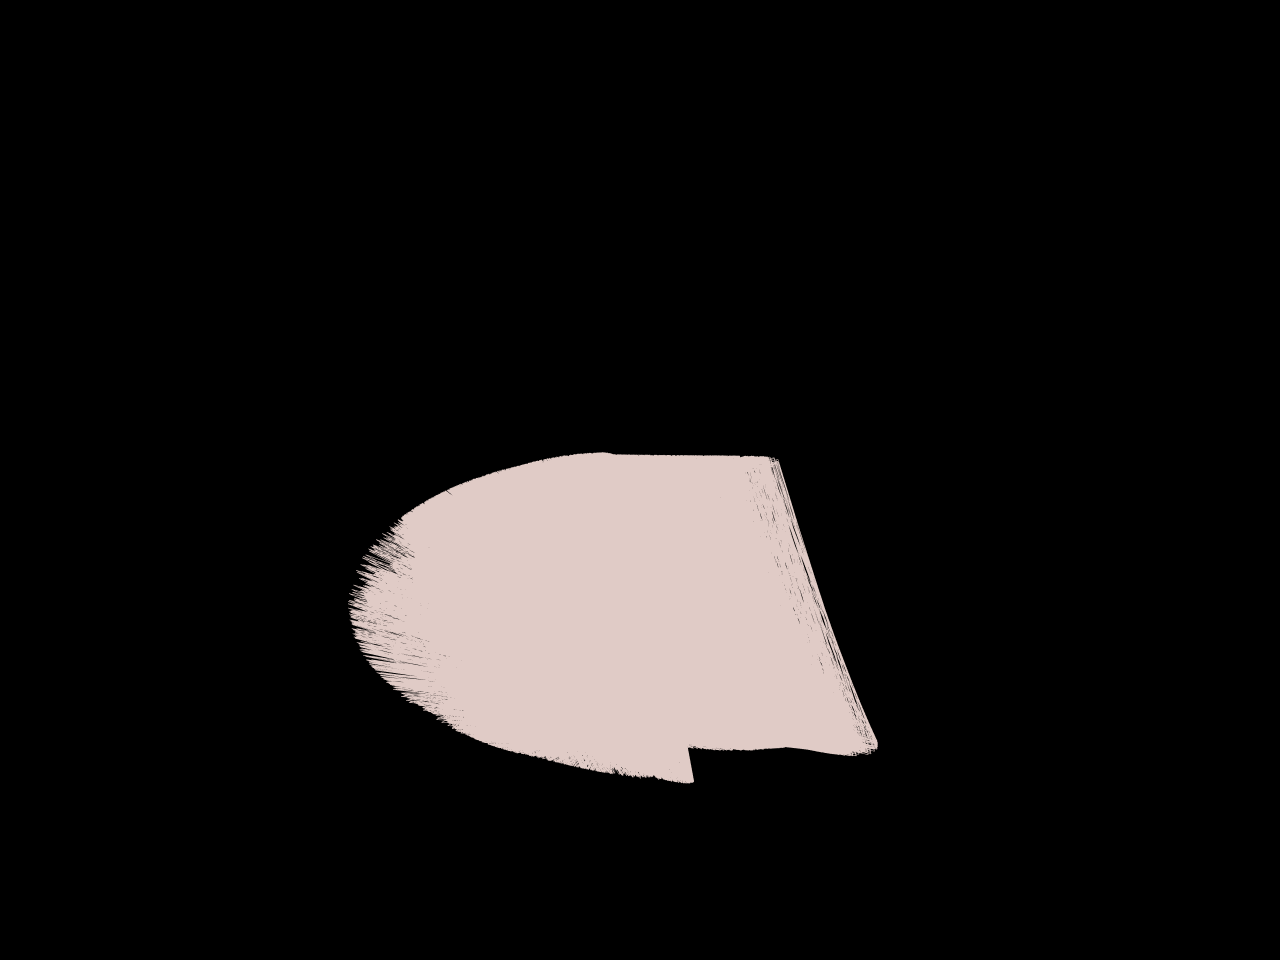
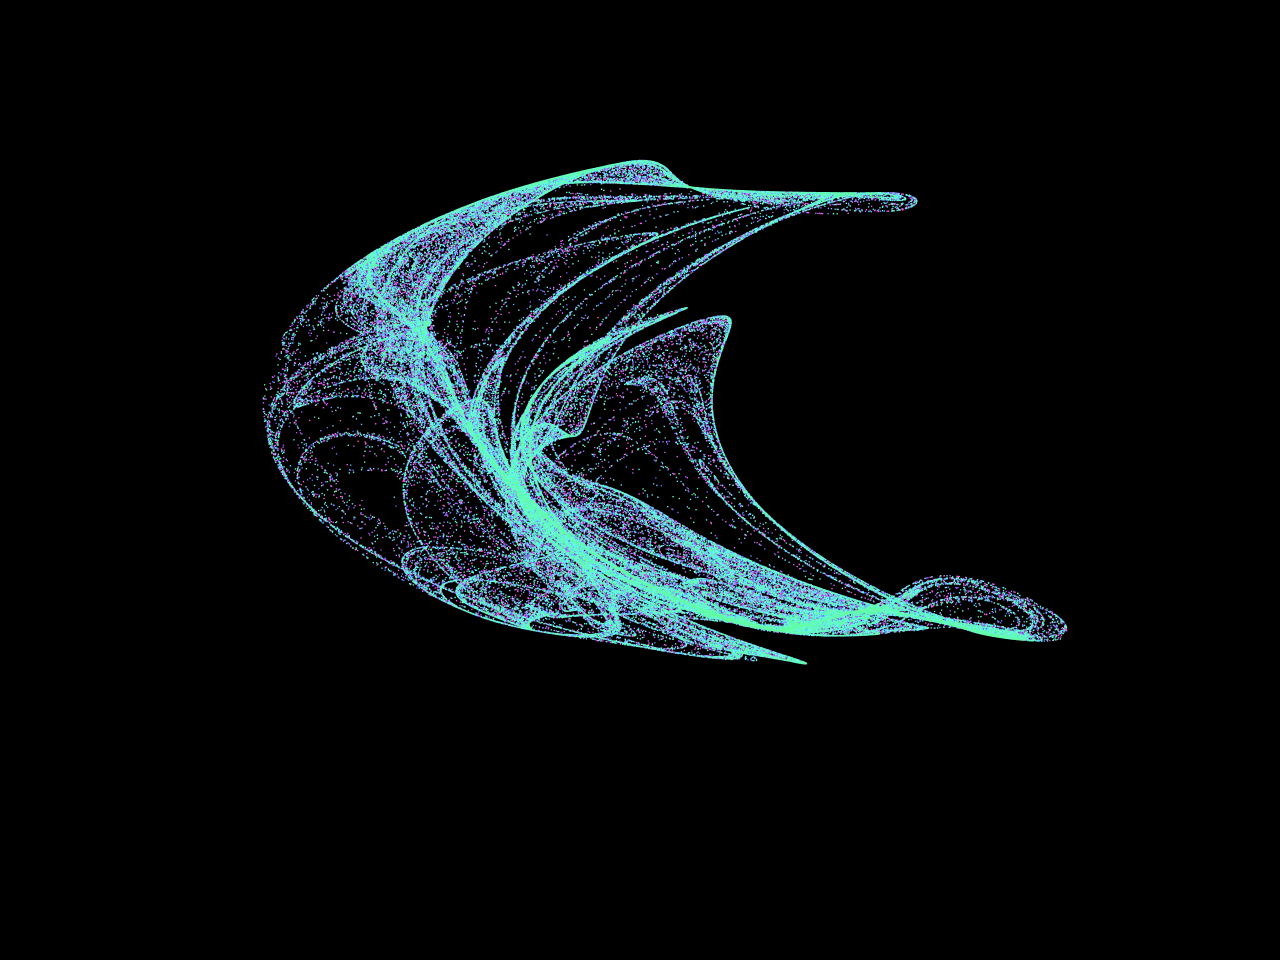
Peter de Jong 3D: point cloud, notebook origin story, viz QA skill.

Changed region(s): [[0.1875, 0.1562, 0.8438, 0.8125]]

diff --git a/packages/frontend/src/pages/attractors/peter_de_jong_attractor_3d.tsx b/packages/frontend/src/pages/attractors/peter_de_jong_attractor_3d.tsx
@@ -1,6 +1,7 @@
 import type { RootState } from '@react-three/fiber'
 import { BlockMath, InlineMath } from 'react-katex'
 import { useEffect, useMemo, useRef } from 'react'
+import * as THREE from 'three'
 import { EDimensions, type TDatData, type TDataFromObject, type TPointsProps } from '../../@types/gui'
 import Base from '../_base'
 import { setDatData, setData } from '../../@store/WebSlice'
@@ -10,12 +11,11 @@ import { resolveParticleCount } from '../../modules/embedMode'
 import { isScreenshotMode } from '../../modules/screenshotMode'
 import { peterDeJong3dTick } from '../../utils/peterDeJong3d'
 
-const COOL = { r: 0.78, g: 0.32, b: 0.48 }
-const WARM = { r: 0.95, g: 0.78, b: 0.42 }
-const SOLID = { r: 0.9, g: 0.55, b: 0.5 }
-
 const SEED = { x: 0, y: 0, z: 0 }
-const SCALE = 50
+/** Default-orbit centroid so the volume sits in frame (not bottom-left). */
+const CENTER = { x: -0.32, y: -1.19, z: -0.18 }
+const SCALE = 68
+const _hsl = new THREE.Color()
 
 type TrailState = {
 	x: number
@@ -43,27 +43,17 @@ const seedTrail = (): TrailState => ({
 	f: Number.NaN,
 })
 
+/** Smooth hue along age — magenta → cyan. */
 const writeColor = (colors: Float32Array, i: number, t: number) => {
-	if (isScreenshotMode()) {
-		colors.set([SOLID.r, SOLID.g, SOLID.b], i * 3)
-		return
-	}
-	const fade = t < 0.62 ? 0 : (t - 0.62) / 0.38
-	colors.set(
-		[
-			COOL.r + (WARM.r - COOL.r) * fade,
-			COOL.g + (WARM.g - COOL.g) * fade,
-			COOL.b + (WARM.b - COOL.b) * fade,
-		],
-		i * 3,
-	)
+	_hsl.setHSL(0.92 - 0.55 * t, 0.95, 0.55)
+	colors.set([_hsl.r, _hsl.g, _hsl.b], i * 3)
 }
 
 const PeterDeJongAttractor3d = () => {
 	const dispatch = useAppDispatch()
 	const { data } = useAppSelector((state) => state.WebSlice)
 	const { calculateParticlesToDraw, updateProgressUI, checkCompletion } = useAnimationState({
-		baseSpeed: 420,
+		baseSpeed: 520,
 	})
 	const trailRef = useRef<TrailState>(seedTrail())
 
@@ -155,12 +145,12 @@ const PeterDeJongAttractor3d = () => {
 			x = next.x
 			y = next.y
 			z = next.z
-			positions.set([x * SCALE, y * SCALE, z * SCALE], computed * EDimensions.THREE_D)
+			positions.set(
+				[(x - CENTER.x) * SCALE, (y - CENTER.y) * SCALE, (z - CENTER.z) * SCALE],
+				computed * EDimensions.THREE_D,
+			)
+			writeColor(colors, computed, computed / denom)
 			computed += 1
-		}
-
-		for (let i = 0; i < particlesToDraw; i++) {
-			writeColor(colors, i, i / denom)
 		}
 
 		trail.x = x
@@ -177,22 +167,22 @@ const PeterDeJongAttractor3d = () => {
 	return (
 		<Base<TData>
 			dimension={EDimensions.THREE_D}
-			numParticles={resolveParticleCount(40_000)}
+			numParticles={resolveParticleCount(160_000)}
 			tick={tick}
-			drawMode="line"
-			lineOpacity={isScreenshotMode() ? 1 : 0.42}
+			drawMode="points"
+			pointSize={isScreenshotMode() ? 1.35 : 1.05}
 			autoRotate={!isScreenshotMode()}
-			autoRotateSpeed={0.28}
-			cameraPosition={[0, 0, 220]}
+			autoRotateSpeed={0.32}
+			cameraPosition={[0, 0, 210]}
 		/>
 	)
 }
 
 PeterDeJongAttractor3d.getDescription = () => (
 	<>
-		The 3D Peter de Jong attractor extends the familiar sine–cosine map into three coordinates: six
-		real knobs and a discrete step that updates <InlineMath math="x,y,z" /> together. Distinct from
-		the planar four-parameter de Jong map.
+		The 3D Peter de Jong attractor extends the sine–cosine map into three coordinates: six real knobs
+		and a discrete step that updates <InlineMath math="x,y,z" /> together. Distinct from the planar
+		four-parameter de Jong cloud.
 		<br />
 		<br />
 		<strong>Definition:</strong>
@@ -200,9 +190,9 @@ PeterDeJongAttractor3d.getDescription = () => (
 		<BlockMath math={'y_{n+1} = \\sin(c x_n) - \\cos(d y_n)'} />
 		<BlockMath math={'z_{n+1} = \\sin(e y_n) - \\cos(f z_n)'} />
 		<br />
-		Archive defaults: <InlineMath math="a=2.695,\ b=1.72,\ c=1.178,\ d=0.311,\ e=-1,\ f=-1" />, seed{' '}
-		<InlineMath math="(0,0,0)" />, positions ×50. Rose→gold GPU line trail; transport <code>n</code>{' '}
-		scrubs length.
+		Defaults: <InlineMath math="a=2.695,\ b=1.72,\ c=1.178,\ d=0.311,\ e=-1,\ f=-1" />, seed{' '}
+		<InlineMath math="(0,0,0)" />. Drawn as a coloured point volume; scrub how many points are lit on
+		the full stage.
 	</>
 )
 

diff --git a/.cursor/skills/viz-visual-qa/SKILL.md b/.cursor/skills/viz-visual-qa/SKILL.md
@@ -1,0 +1,82 @@
+---
+name: viz-visual-qa
+description: >-
+  Visual QA for Classical Chaos attractors/maps/meshes: check math vs About,
+  draw mode (points vs lines), framing/scale/camera, color ramp, defaults and
+  examples (no rings/blobs/runaway), thumbs. Use when a viz “looks horrible”,
+  after porting a catalog slug, when the user asks to review a viz visually, or
+  before In review for a new attractor/map page.
+---
+
+# Viz visual QA
+
+Ignore archive/port provenance. Ask: does this stage earn a catalog slot?
+
+## When to run
+
+- User says a viz looks bad / blob / rings / muddy / wrong
+- After implementing or tuning a page under `packages/frontend/src/pages/{attractors,maps,fractals,misc}/`
+- Before claiming a viz port is ready for In review
+
+## Procedure
+
+### 1. Math identity
+
+- Compare `iterate` / tick util to About `BlockMath` and any unit test.
+- Distinct from siblings? (e.g. Hopalong sinusoidal ≠ typo `sin`/`sign` map)
+- If the only story is “archive typo” / duplicate of an existing slug → **kill**, don’t polish.
+
+### 2. Boundedness & silhouette
+
+- Quick iterate (script or mental): defaults should stay bounded and show structure (lace, lobes, folds), not diverge to ±1e4 or collapse to a filled rectangle.
+- Examples 2–3 must not be periodic rings or empty when Example 1 is good.
+- Prefer params the user already liked when fixing presets.
+
+### 3. Draw mode vs density
+
+| Map type | Prefer |
+|----------|--------|
+| Dense discrete 2D/3D point cloud | `points` + HSL/chunk color |
+| Sparse ODE trail (Lorenz, Aizawa) | `line` + cool→warm along age |
+| Mesh | lit mesh; don’t fake with opaque lines |
+
+Dense discrete maps drawn as thick/opaque **lines** often read as a **solid blob** — switch to points or cut opacity hard.
+
+### 4. Color
+
+- Live view: saturated ramp (HSL-chunk, cyan→magenta, cool→warm with early contrast). Avoid muddy single pink/beige.
+- Screenshot/thumb (`isScreenshotMode` / `pnpm thumbs`): must still show structure — flat `SOLID` crush can nuke detail; prefer same hue walk or a solidify allowlist only when AA fringes need crushing.
+- No purple-on-black glow cliché unless the existing page family already uses it.
+
+### 5. Framing
+
+- `scale` × orbit span should fill the frame without sitting inside the cloud or leaving a tiny speck.
+- `cameraPosition` / auto-rotate: readable silhouette in first seconds.
+- After visual change: regen thumb  
+  `cd packages/frontend && FRONTEND_URL=http://127.0.0.1:5173/chaos pnpm thumbs -- --slug <slug>`  
+  (Vite 5173 + icons 8080). Commit PNG with the viz change.
+
+### 6. Copy hygiene (About + notebook)
+
+- No private archive links, “ported from”, bare `/slug` paths, staff `transport n` without plain language.
+- Affordance claims: embed vs full canvas.
+
+## Output
+
+Short report:
+
+```text
+Slug: …
+Math: match | mismatch | duplicate→kill
+Draw/color/frame: … (what you change)
+Examples: … 
+Thumb: regen | skip
+Verdict: ship | fix | kill
+```
+
+Then implement fixes (or close the ticket/PR on **kill**).
+
+## Related
+
+- Gallery thumbs: `.cursor/rules/gallery-thumb-regen.mdc`
+- Notebook gates: skill `blog-builder` (separate from canvas look)
